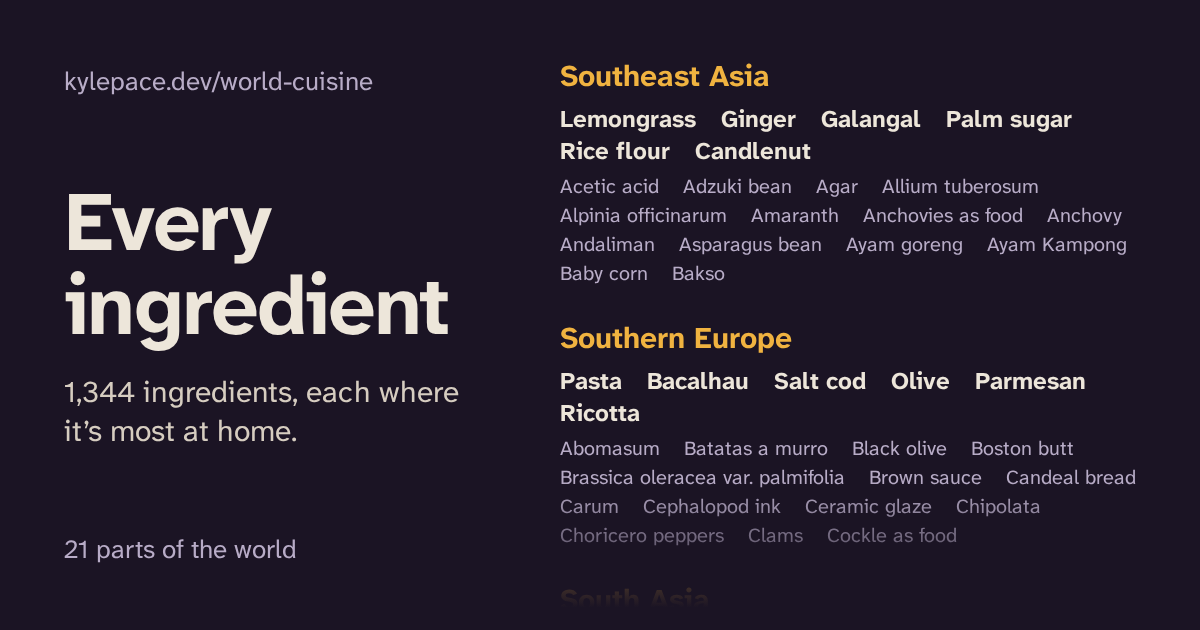
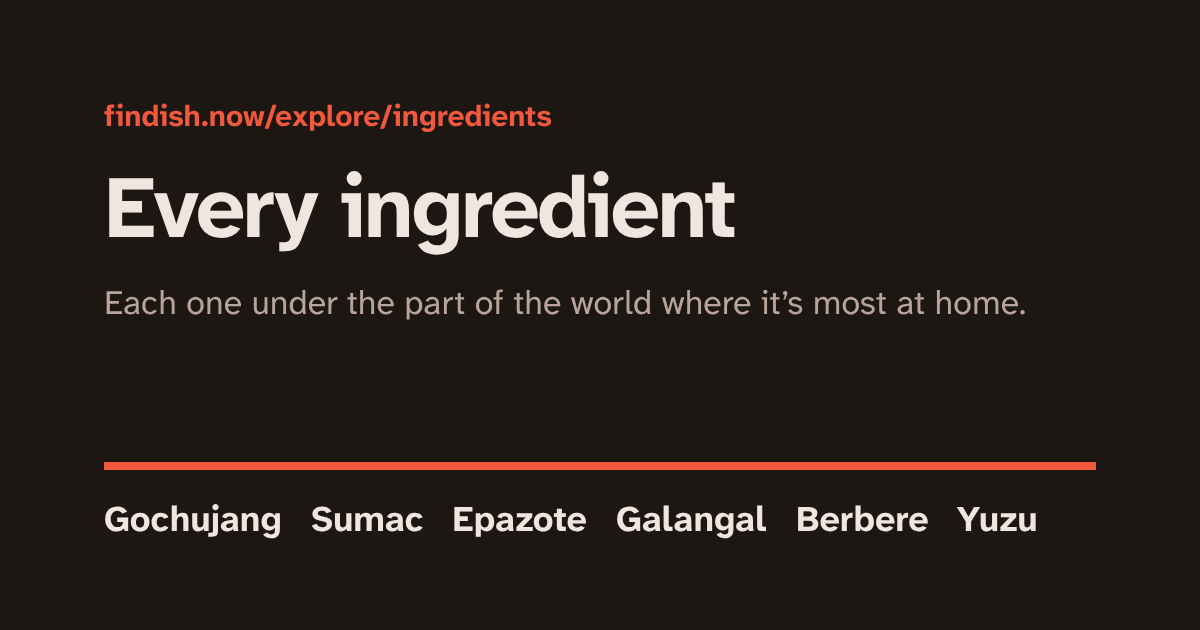
Explore pages and About sections now look like the rest of finDish (#22)
One ink button with plain links beside it instead of pill buttons, lists of
dishes and ingredients as plain words instead of dot-separated links, recipe
sites and cookbooks as ruled lines instead of cards, and no colored dots.
New share cards for Explore and Every ingredient.

Claude-Session: https://claude.ai/code/session_015KDcQBjvWBCwBhsrh3FuG9

Changed region(s): [[0.0308, 0.1206, 0.9558, 0.9048], [0.6475, 0.573, 0.925, 0.6333], [0.4625, 0.0905, 0.6475, 0.1508]]

diff --git a/src/styles/explore.css b/src/styles/explore.css
@@ -1,7 +1,7 @@
 /* Explore (/explore/): the globe's page and the pages for every cuisine, dish and
    ingredient, moved here from World cuisine on 2026-11-26. These rules came with them and
-   read finDish's tokens (theme.css). Their look is still the explorer's own; bringing it
-   into line with design/PLAN.md is part of merging these pages with the browse pages. */
+   read finDish's tokens (theme.css). The globe and the page browser inside the frame keep
+   the explorer's own look; everything around them is finDish's (design/PLAN.md, "Explore"). */
 .explore-page {
   width: min(100% - 2 * var(--gutter), 64rem);
   margin-inline: auto;
@@ -9,7 +9,7 @@
 }
 .explore-page > header h1 { font-size: var(--step-4); line-height: 1.05; margin: 0 0 var(--space-3); }
 .explore-page .lede { max-width: 42rem; font-size: var(--step-1); color: var(--ink-muted); margin: 0 0 var(--space-6); }
-.explore-page .frame { border: 1px solid var(--line); border-radius: var(--radius); overflow: hidden; background: #1b1424; }
+.explore-page .frame { border: 1px solid var(--line); border-radius: 0.5rem; overflow: hidden; background: #1b1424; }
 /* Keyboard focus inside the globe shows on its frame, since the page can't see in. */
 .explore-page .frame:has(iframe:focus-visible),
 .explore-page .frame:focus-within { outline: 3px solid var(--accent-ink); outline-offset: 2px; }
@@ -19,7 +19,7 @@
 .explore-page .fullscreen {
   display: flex; align-items: center; justify-content: center; gap: var(--space-3);
   width: 100%; min-height: 4rem; margin: 0 0 var(--space-4); padding: var(--space-4) var(--space-6);
-  border-radius: var(--radius); background: var(--ink); color: var(--bg);
+  border-radius: 0.5rem; background: var(--ink); color: var(--bg);
   font-size: var(--step-1); font-weight: 700; line-height: 1.2; text-align: center; text-decoration: none;
 }
 .explore-page .fullscreen svg { flex: none; }
@@ -36,52 +36,79 @@
   .explore-page iframe { height: 70svh; }
 }
 
-/* One cuisine, dish or ingredient (src/pages/explore/[type]/[slug].astro) */
-  .cx-top { max-width: 42rem; margin: var(--space-8) auto 0; padding: 0 var(--space-4); font-size: var(--step--1); color: var(--ink-muted); display: flex; gap: var(--space-2); }
-  .cx { max-width: 42rem; margin: var(--space-4) auto var(--space-16); padding: 0 var(--space-4); }
-  .cx a { color: inherit; text-underline-offset: 3px; }
-  .cx .crumb { color: var(--ink-muted); font-size: var(--step--1); margin: 0 0 var(--space-2); }
-  .cx h1 { font-family: var(--font-display); font-size: var(--step-4); line-height: 1.05; margin: 0 0 var(--space-2); }
-  .cx .sub { color: var(--ink-muted); margin: 0 0 var(--space-3); display: flex; align-items: center; gap: var(--space-2); }
-  .cx .sub i { width: 10px; height: 10px; border-radius: 50%; flex: none; box-shadow: 0 0 0 1px var(--line); }
-  .cx .intro { font-size: var(--step-1); }
-  .cx .intro p { margin: 0 0 var(--space-3); }
-  .cx .source { color: var(--ink-muted); font-size: var(--step--1); margin: 0 0 var(--space-2); }
-  .cx .actions { display: flex; flex-wrap: wrap; gap: var(--space-2); margin: var(--space-4) 0; }
-  .cx .btn { display: inline-flex; align-items: center; gap: var(--space-2); padding: var(--space-2) var(--space-4); border: 1px solid var(--line); border-radius: 999px; text-decoration: none; font-weight: 600; font-size: var(--step--1); background: var(--bg-raised); }
-  .cx .btn:hover { border-color: var(--ink-muted); }
-  .cx .btn svg, .cx .out svg { width: 16px; height: 16px; }
-  .cx .btn-walk { background: var(--ink); color: var(--bg); border-color: var(--ink); }
-  .cx h2 { font-size: var(--step-1); margin: var(--space-8) 0 var(--space-3); display: flex; align-items: baseline; gap: var(--space-2); }
-  .cx h2 small { color: var(--ink-muted); font-weight: 400; font-size: var(--step--1); }
-  .cx .empty { color: var(--ink-muted); margin: 0; }
-  .cx .tag { display: inline-block; font-size: 0.75rem; color: var(--ink-muted); border: 1px solid var(--line); border-radius: 999px; padding: 0 7px; margin-left: 6px; vertical-align: 2px; font-weight: 400; }
-  .cx .links { display: flex; flex-wrap: wrap; gap: 6px 8px; margin: 0; padding: 0; list-style: none; }
-  .cx .links li:not(:last-child)::after { content: '·'; color: var(--ink-muted); margin-left: 8px; }
-  .cx .rows { list-style: none; margin: 0; padding: 0; display: grid; gap: var(--space-2); }
-  .cx .row { display: flex; align-items: flex-start; gap: var(--space-3); padding: var(--space-3) var(--space-4); background: var(--bg-raised); border: 1px solid var(--line); border-radius: var(--radius); }
-  .cx .row > div { flex: 1; min-width: 0; }
-  .cx .row .name { font-weight: 700; text-decoration: none; }
-  .cx .row .name:hover { text-decoration: underline; }
-  .cx .row small { display: block; color: var(--ink-muted); font-size: var(--step--1); margin-top: 2px; }
-  .cx .row .mark { width: 10px; height: 10px; margin-top: 8px; flex: none; border-radius: 50%; box-shadow: 0 0 0 1px var(--line); }
-  .cx .row .out { color: var(--ink-muted); padding: 4px; }
-  .cx .grouped { list-style: none; margin: 0; padding: 0; display: grid; gap: var(--space-4); }
-  .cx .grouped > li { border-top: 1px solid var(--line); padding-top: var(--space-3); }
-  .cx .grouped > li:first-child { border-top: 0; padding-top: 0; }
-  .cx .grouped .n { color: var(--ink-muted); font-size: var(--step--1); }
-  .cx .grouped .links { margin-top: var(--space-2); }
-  .cx .grown { list-style: none; margin: 0; padding: 0; display: grid; gap: 6px; }
-  .cx .grown li { position: relative; display: flex; justify-content: space-between; gap: var(--space-3); padding: 6px 12px; border-radius: var(--radius-sm); overflow: hidden; background: var(--bg-raised); }
-  .cx .grown li i { position: absolute; left: 0; top: 0; bottom: 0; background: color-mix(in srgb, var(--ink) 10%, transparent); }
-  .cx .grown li span { position: relative; }
-  .cx .grown .n { color: var(--ink-muted); font-size: var(--step--1); }
-  .cx .cover { float: right; width: 120px; aspect-ratio: 2 / 3; margin: 0 0 var(--space-3) var(--space-4); border-radius: 3px 6px 6px 3px; overflow: hidden; position: relative; background: var(--bg-raised); display: flex; align-items: flex-end; padding: 10px; font-weight: 700; font-size: var(--step--1); }
-  .cx .cover img { position: absolute; inset: 0; width: 100%; height: 100%; object-fit: cover; }
-  .cx .photo { margin: var(--space-2) 0 var(--space-4); }
-  .cx .photo img { display: block; width: 100%; height: auto; max-height: 420px; object-fit: cover; border-radius: var(--radius); background: var(--bg-raised); }
-  .cx .photo figcaption { font-size: var(--step--1); color: var(--ink-muted); margin-top: var(--space-2); }
-  .cx .correct { margin-top: var(--space-12); padding-top: var(--space-4); border-top: 1px solid var(--line); color: var(--ink-muted); font-size: var(--step--1); }
+/* One cuisine, dish or ingredient (src/pages/explore/[type]/[slug].astro), and the same
+   markup as a browse page's About section. finDish's look since 2026-11-26 (design/PLAN.md,
+   "Explore"): ruled lines instead of cards, words instead of pills, no dots. The renderer's
+   markup is the explorer's own (vendor/explore/render_item.js), so what finDish doesn't
+   show (the colored marks) is hidden here, not taken out there. */
+.cx-top { max-width: 42rem; margin: var(--space-8) auto 0; padding: 0 var(--space-4); font-size: var(--step--1); color: var(--ink-muted); display: flex; gap: var(--space-2); }
+.cx-top a { color: inherit; }
+.cx { max-width: 42rem; margin: var(--space-4) auto var(--space-16); padding: 0 var(--space-4); }
+.cx a { color: var(--accent-ink); text-underline-offset: 3px; }
+.cx a:focus-visible { outline: 3px solid var(--accent-ink); outline-offset: 2px; border-radius: 2px; }
+.cx .crumb { color: var(--ink-muted); font-size: var(--step--1); margin: 0 0 var(--space-2); }
+.cx .crumb a { color: inherit; }
+.cx h1 { font-family: var(--font-display); font-size: var(--step-4); line-height: 1.05; margin: 0 0 var(--space-2); }
+.cx .sub { color: var(--ink-muted); margin: 0 0 var(--space-3); }
+/* The explorer's colors say which part of the world on its globe. Here they'd be a dot
+   beside a sentence that already says it, so they aren't shown. */
+.cx .sub i, .cx .row .mark { display: none; }
+.cx .intro { font-size: var(--step-1); line-height: 1.5; }
+.cx .intro p { margin: 0 0 var(--space-3); }
+.cx .source { color: var(--ink-muted); font-size: var(--step--1); margin: 0 0 var(--space-2); }
+.cx .source a { color: inherit; }
+
+/* What to do next: the globe in ink, square-shouldered like "Search all" on a browse page,
+   and the rest as plain links beside it. */
+.cx .actions { display: flex; flex-wrap: wrap; align-items: center; gap: var(--space-2) var(--space-6); margin: var(--space-4) 0; }
+.cx .btn { display: inline-flex; align-items: center; gap: var(--space-2); min-height: 44px; font-weight: 600; }
+.cx .btn svg, .cx .out svg { width: 16px; height: 16px; flex: none; }
+.cx .btn:first-child { padding: 0 var(--space-4); border-radius: 0.5rem; background: var(--ink); color: var(--bg); font-weight: 700; text-decoration: none; }
+.cx .btn:first-child:hover { text-decoration: underline; }
+
+.cx h2 { font-size: var(--step-1); margin: var(--space-8) 0 var(--space-3); display: flex; align-items: baseline; gap: var(--space-2); }
+.cx h2 small { color: var(--ink-muted); font-weight: 400; font-size: var(--step--1); }
+.cx .empty { color: var(--ink-muted); margin: 0; }
+/* "Suggested" is a plain muted word after the name, not a badge. */
+.cx .tag { margin-left: var(--space-2); color: var(--ink-muted); font-size: var(--step--1); font-weight: 400; }
+
+/* Lists of names (dishes, ingredients, cuisines) are words with room between them, as on
+   Every ingredient. Every word is a link, so they go without underlines until pointed at. */
+.cx .links { display: flex; flex-wrap: wrap; gap: 0 var(--space-4); margin: 0; padding: 0; list-style: none; line-height: 1.4; }
+.cx .links a { display: inline-block; padding: 0.3rem 0; color: inherit; text-decoration: none; }
+.cx .links a:hover { text-decoration: underline; }
+
+/* Recipe sites and cookbooks: ruled lines, a name and a muted sentence under it. */
+.cx .rows { list-style: none; margin: 0; padding: 0; display: block; border-bottom: 1px solid var(--line); }
+.cx .rows .row { display: flex; align-items: flex-start; gap: var(--space-3); padding: var(--space-3) 0; border-top: 1px solid var(--line); }
+.cx .row > div { flex: 1; min-width: 0; }
+.cx .row .name { font-weight: 700; color: inherit; text-decoration: none; }
+.cx .row .name:hover { text-decoration: underline; }
+.cx .row small { display: block; color: var(--ink-muted); font-size: var(--step--1); margin-top: 2px; }
+.cx .row .out { display: inline-flex; align-items: center; justify-content: center; min-width: 44px; min-height: 44px; margin: -6px -12px -6px 0; color: var(--ink-muted); }
+
+.cx .grouped { list-style: none; margin: 0; padding: 0; display: grid; gap: var(--space-3); }
+.cx .grouped > li { border-top: 1px solid var(--line); padding-top: var(--space-3); }
+.cx .grouped b a { color: inherit; }
+.cx .grouped .n { color: var(--ink-muted); font-size: var(--step--1); }
+.cx .grouped .links { margin-top: var(--space-1); }
+
+/* Where it's grown: each country's bar is its share of the biggest grower's harvest. */
+.cx .grown { list-style: none; margin: 0; padding: 0; display: grid; gap: 4px; }
+.cx .grown li { position: relative; display: flex; justify-content: space-between; gap: var(--space-3); padding: 6px 10px; overflow: hidden; }
+.cx .grown li i { position: absolute; left: 0; top: 0; bottom: 0; border-radius: 2px; background: var(--scallion-fill); }
+.cx .grown li span { position: relative; }
+.cx .grown li a { color: inherit; }
+.cx .grown .n { color: var(--ink-muted); font-size: var(--step--1); }
+
+.cx .cover { float: right; width: 120px; aspect-ratio: 2 / 3; margin: 0 0 var(--space-3) var(--space-4); border-radius: 2px 4px 4px 2px; overflow: hidden; position: relative; background: var(--bg-raised); display: flex; align-items: flex-end; padding: 10px; font-weight: 700; font-size: var(--step--1); }
+.cx .cover img { position: absolute; inset: 0; width: 100%; height: 100%; object-fit: cover; }
+.cx .photo { margin: var(--space-2) 0 var(--space-4); }
+.cx .photo img { display: block; width: 100%; height: auto; max-height: 420px; object-fit: cover; border-radius: 0.35rem; background: var(--line); }
+.cx .photo figcaption { font-size: var(--step--1); color: var(--ink-muted); margin-top: var(--space-2); }
+.cx .photo figcaption a { color: inherit; }
+.cx .correct { margin-top: var(--space-12); padding-top: var(--space-4); border-top: 1px solid var(--line); color: var(--ink-muted); font-size: var(--step--1); }
+.cx .correct a { color: inherit; }
 
 .explore-page .more { margin: var(--space-3) 0 0; }
 .explore-page .more a { font-weight: 700; color: inherit; }
@@ -101,4 +128,4 @@
 
 /* A recipe site's address or a long dish name with no spaces must wrap, not push the page
    wide on a small phone (found on /cuisine/italian/ at 320px by the page check). */
-.cx .row small, .cx .row .name, .cx .links a, .cx .grown span { overflow-wrap: anywhere; }
+.cx h1, .cx h2, .cx h3, .cx .sub, .cx .row small, .cx .row .name, .cx .links a, .cx .grown span, .cx .btn { overflow-wrap: anywhere; }

diff --git a/design/og-explore.html b/design/og-explore.html
@@ -1,0 +1,22 @@
+<!doctype html><html><head><meta charset="utf-8"><style>
+@font-face{font-family:A;font-weight:400;src:url("../node_modules/@fontsource/atkinson-hyperlegible-next/files/atkinson-hyperlegible-next-latin-400-normal.woff2")}
+@font-face{font-family:A;font-weight:700;src:url("../node_modules/@fontsource/atkinson-hyperlegible-next/files/atkinson-hyperlegible-next-latin-700-normal.woff2")}
+html,body{margin:0}
+body{position:relative;width:1200px;height:630px;background:#1d1714;color:#f1e6df;font-family:A;overflow:hidden;box-sizing:border-box;padding:96px 104px 0}
+.site{font-size:30px;font-weight:700;color:#f2593c;margin:0}
+h1{font-size:88px;letter-spacing:-0.03em;line-height:1.02;margin:28px 0 0;max-width:680px}
+p.line{font-size:34px;color:#b8a49b;margin:28px 0 0;max-width:600px;line-height:1.35}
+/* Share card for findish.now/explore/ (public/explore/share.png). Render at 1200x630
+   (share-card skill), dark values from src/styles/theme.css. The globe is the page's one
+   bold thing, drawn as a plate-colored outline with tomato meridians. */
+svg{position:absolute;right:80px;top:135px}
+</style></head><body>
+<p class="site">findish.now/explore</p>
+<h1>Explore the world&rsquo;s cuisines</h1>
+<p class="line">A globe of cuisines, their dishes and ingredients, and this week&rsquo;s recipes.</p>
+<svg width="360" height="360" viewBox="0 0 440 440" fill="none" stroke-width="6">
+<g stroke="#7d6a61"><ellipse cx="220" cy="220" rx="212" ry="78"/><ellipse cx="220" cy="220" rx="212" ry="158"/><path d="M8 220h424"/></g>
+<g stroke="#f2593c"><ellipse cx="220" cy="220" rx="78" ry="212"/><ellipse cx="220" cy="220" rx="158" ry="212"/><path d="M220 8v424"/></g>
+<circle cx="220" cy="220" r="212" stroke="#f1e6df" stroke-width="8"/>
+</svg>
+</body></html>

diff --git a/design/og-explore-ingredients.html b/design/og-explore-ingredients.html
@@ -1,0 +1,19 @@
+<!doctype html><html><head><meta charset="utf-8"><style>
+@font-face{font-family:A;font-weight:400;src:url("../node_modules/@fontsource/atkinson-hyperlegible-next/files/atkinson-hyperlegible-next-latin-400-normal.woff2")}
+@font-face{font-family:A;font-weight:700;src:url("../node_modules/@fontsource/atkinson-hyperlegible-next/files/atkinson-hyperlegible-next-latin-700-normal.woff2")}
+html,body{margin:0}
+body{position:relative;width:1200px;height:630px;background:#1d1714;color:#f1e6df;font-family:A;overflow:hidden;box-sizing:border-box;padding:96px 104px 0}
+.site{font-size:30px;font-weight:700;color:#f2593c;margin:0}
+h1{font-size:88px;letter-spacing:-0.03em;line-height:1.02;margin:28px 0 0;max-width:680px}
+p.line{font-size:34px;color:#b8a49b;margin:28px 0 0;max-width:600px;line-height:1.35}
+/* Share card for findish.now/explore/ingredients/ (public/explore/share-ingredients.png).
+   The page is words, so the card is too: a few ingredients set like the page's lists. */
+h1{max-width:900px}
+p.line{max-width:980px}
+.words{position:absolute;left:104px;right:104px;bottom:84px;margin:0;font-size:36px;font-weight:700;line-height:1.5;color:#f1e6df;border-top:8px solid #f2593c;padding-top:22px;word-spacing:0.5em;white-space:nowrap;overflow:hidden}
+</style></head><body>
+<p class="site">findish.now/explore/ingredients</p>
+<h1>Every ingredient</h1>
+<p class="line">Each one under the part of the world where it&rsquo;s most at home.</p>
+<p class="words">Gochujang Sumac Epazote Galangal Berbere Yuzu</p>
+</body></html>

diff --git a/AGENTS.md b/AGENTS.md
@@ -424,10 +424,11 @@ Findish also has an iPhone and iPad app, `kyle-pace/findish-app` (private), chec
 - **The globe page's big button** (Kyle, 2026-11-26: "a much larger cta"): "Open the globe full screen" is the one big button on `/explore/`, above the globe on every screen size. It sends "Opened Full Screen Globe" (`opened_from: explore`).
 - **The explorer is a copy.** `vendor/explore/` is a word-for-word copy of the explorer's pages (`index.html` the globe, `web.html` the page browser, `drop.html`), its renderer (`render_item.js`), its libraries (globe.gl, force-graph, fonts) and the data they load, about 16 MB. `npm run sync-explore` (`scripts/sync-explore.mjs`, expects a clone at `../world-cuisines`) refreshes it and refuses a thin copy (under 300 cuisines, or under five sixths of the pages here now). `vendor/explore/SOURCE.json` says which commit it is. The weekly Wikipedia refresh still runs in world-cuisines; nothing here runs it yet, so the copy only changes when someone syncs. Change the explorer there, not in the copy.
 - **Staging:** `scripts/stage-explore.mjs` copies it to `public/explore/app/` (generated, not committed) before every build and dev run, changing every `/world-cuisine/` address to `/explore/` (`RULES`). A rule that matches nothing fails the build. Tests: `scripts/stage-explore.test.mjs`.
-- **Pages:** `src/pages/explore/index.astro` frames the globe (`/explore/`, `#thai-cuisine` passed through); `src/pages/explore/[type]/[slug].astro` renders a cuisine, dish or ingredient on request with the explorer's own `render_item.js` (always noindex for now); `src/pages/explore/img/[...path].ts` serves the listed Wikimedia photos from the R2 bucket `kylepace-cuisine-images` (binding `CUISINE_IMAGES` in `wrangler.jsonc`, the same bucket World cuisine filled), fetching each once. Styles are `src/styles/explore.css`, brought over as they were; they have not been through `design/PLAN.md` yet.
+- **Pages:** `src/pages/explore/index.astro` frames the globe (`/explore/`, `#thai-cuisine` passed through); `src/pages/explore/[type]/[slug].astro` renders a cuisine, dish or ingredient on request with the explorer's own `render_item.js` (always noindex for now); `src/pages/explore/img/[...path].ts` serves the listed Wikimedia photos from the R2 bucket `kylepace-cuisine-images` (binding `CUISINE_IMAGES` in `wrangler.jsonc`, the same bucket World cuisine filled), fetching each once. Styles are `src/styles/explore.css` (see "The look" below).
 - **Headers:** `/explore/app/*` is noindex and may be framed by finDish's own pages only (`public/_headers`); everything else still refuses framing.
 - **Every ingredient** (`/explore/ingredients/`, `src/pages/explore/ingredients.astro`): every ingredient under the part of the world where it's most at home, or A to Z, with a find box, a part-of-the-world filter and an order switch. Built from `vendor/explore/data/ingredient_groups.json`, which world-cuisines works out. Events, as they were there but without `experiment`: "Opened Ingredient", "Searched Ingredients" (`result_count` only, never what was typed) and "Changed Ingredient Filter" (`region`, `order`).
-- **Not here yet:** the explorer's About and How it's built pages, finDish share cards for Explore (it uses World cuisine's three for now), and a pass through `design/PLAN.md` for the About sections and the `/explore/` pages, which still wear the explorer's look.
+- **The look** (2026-11-26, `design/PLAN.md`, "Explore"): the item pages and the About sections wear finDish's clothes: one ink button ("Show on the globe") with plain links beside it, lists of names as words with no dots between, recipe sites and cookbooks as ruled lines, no colored marks. The markup is the explorer's, so the marks are hidden in `src/styles/explore.css`, not removed. Everything inside the globe's frame keeps the explorer's look. Share cards: `design/og-explore.html` and `design/og-explore-ingredients.html`, rendered by a short Playwright script to `public/explore/share.png` and `share-ingredients.png` (`drop-share.png` is still the explorer's).
+- **Not here yet:** the explorer's About and How it's built pages, and finDish recipes on a dish's page.
 - **Outside hosts** (Kyle, 2026-11-26): `en.wikipedia.org` is approved "for now" for the explorer's live intros and is in `.agents/allowed-hosts.txt`. **Cookbook covers are self-hosted**, like the creators' books: `npm run covers` (`scripts/book-covers.mjs`) also fetches a cover for every ISBN in `vendor/explore/data/picks.json` and `suggestions.json` into `public/covers/`, and staging points the explorer's `covers.openlibrary.org` addresses at `/covers/<isbn>.webp`. Run it after `npm run sync-explore` brings new books. On 2026-11-26 Open Library had a cover for 125 of the 272 Explore books; the rest show their title on a plain cover, as the explorer always did when a cover wouldn't load.
 - **The item pages import the staged renderer** (`public/explore/app/render_item.js`), not the copy in `vendor/explore/`, so they get the same changed addresses as the app. Staging runs before `astro dev` and `astro build`; run `node scripts/stage-explore.mjs` first if you call Astro directly.
 - **Tracking plan:** every Explore event named in this section was added to finDish's Amplitude plan on 2026-11-26 under the category Explore, with `explore_kind`, `ingredient_slug`, `region` and `order`.

diff --git a/design/PLAN.md b/design/PLAN.md
@@ -267,3 +267,47 @@ See all 299
 ```
 
 Checked against the defaults: no cards, pills or eyebrows; the count beside a heading is plain muted text, not a badge; the blurb is one sentence about the food, not about the interface; "See all" is a plain link, and only where the shelf is a search the page can run.
+
+## Explore (November 26, 2026)
+
+World cuisine moved in as `/explore/`: a globe of the world's cuisines, a page for every dish, and an About section on the browse pages for a cuisine or an ingredient (`/cuisine/korean/#about`, `/with/tofu/#about`). It arrived wearing the explorer's own clothes: pill buttons, colored dots, middle dots between names, and recipe sites in rounded cards. This pass puts it in finDish's.
+
+**Who it's for:** someone who doesn't know what to search for yet, or who landed on Korean recipes and wonders what Korean cooking is. The globe is for wandering; the About section answers "what is this, what's in it, who cooks it" under the recipes, never above them.
+
+**The one bold thing: the globe,** and the one big ink button that opens it full screen. It is the only dark, colorful object on a cream page, and it keeps its own look inside its frame (the explorer is a copy; its colors mean parts of the world there). Nothing around it competes: no second accent, no decoration.
+
+**Colors:** finDish's own, nothing new. Cream page `#fbf5ec` (charcoal `#1d1714`), ink `#2a1712` (`#f1e6df`) for the button and names, muted ink `#6e5249` (`#b8a49b`) for counts and credits, hairline `#efe2d6` (`#332924`) for rules, tomato `#b8341c` (`#f2593c`) only for links inside sentences, and basil fill `#e2efd9` (`#25331f`) for the one chart, the bars under "Where it's grown".
+
+**Type:** Atkinson Hyperlegible Next throughout. The Wikipedia intro is the only large text (step 1); section headings are step 1 bold with their count beside them in plain muted text.
+
+```
+/explore/                                   A dish, or a browse page's About section
+
+findish                                     Bibimbap
+Explore                                     Dish from Korean cuisine
+670+ of the world's cuisines on a globe…    [ photo ]
+[ ⛶ Open the globe full screen ]            Photo: …, CC BY-SA 2.0, via Wikimedia Commons
+┌──────────────────────────────────┐        Bibimbap, sometimes romanised as…
+│            the globe             │        [Show on the globe]  Wikipedia ↗  Explore on the map
+└──────────────────────────────────┘
+Open the page browser   Every ingredient    Ingredients 4
+                                            Egg   Gochujang   Namul   Rice
+Recipes for this week
+(the shelves, as on Discover)               Cook it
+                                            ───────────────────────────────
+                                            Maangchi  Suggested           ↗
+                                            maangchi.com
+                                            ───────────────────────────────
+```
+
+**What changed, against the defaults:**
+
+- **Pills to one button and plain links.** "Show on the globe" is the ink, square-shouldered button the browse pages use for "Search all"; "Wikipedia" and "Explore on the map" are links beside it. The arrow on an outside link is the explorer's "opens another site" mark and stays.
+- **Dots gone.** The colored dot beside "Dish from Korean cuisine" and the squares beside each recipe site repeated what the words say, so they're hidden (in CSS: the markup is the explorer's).
+- **Middle dots gone.** Lists of dishes, ingredients and cuisines are words with room between them, as on Every ingredient. Every word in such a list is a link, so they carry no underline until pointed at.
+- **Cards to ruled lines.** Recipe sites and cookbooks are a bold name and a muted sentence between hairlines, like the creators list. "Suggested" is a muted word after the name, not a badge.
+- **One chart.** "Where it's grown" keeps its bars (each is that country's share of the biggest harvest, with the tonnes written beside it), in basil.
+
+Left as they were: Every ingredient (`/explore/ingredients/`), which was already words and rules, and everything inside the globe's frame.
+
+**Share cards:** `design/og-explore.html` (a globe in plate-colored and tomato lines) and `design/og-explore-ingredients.html` (a line of ingredient names on a tomato rule), rendered to `public/explore/share.png` and `share-ingredients.png`.

diff --git a/docs/explore-plan.md b/docs/explore-plan.md
@@ -60,7 +60,6 @@ link, recipes for it from finDish, the creators who cook it, and related pages.
 
 - Confluence: the Findish page (6848557) and World cuisine's page in the Labs space.
 - Keeping the copy fresh: nothing syncs `vendor/explore/` automatically yet.
-- The About sections and `/explore/` pages still wear the explorer's look; they haven't
-  been through `design/PLAN.md`.
+- A dish's page (`/explore/dish/…`) shows no finDish recipes yet.
 - On phones shorter than 780px the home page's Explore line is hidden so the page fits one
   screen; the footer link is the way in there.
